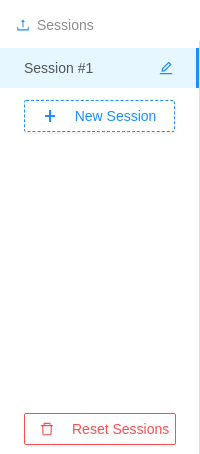
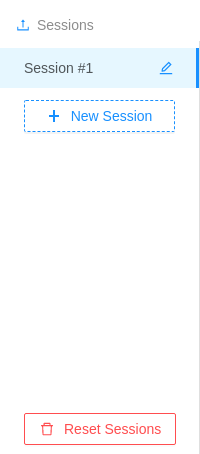
fix: ugly buttons on sidebar

Changed region(s): [[0.3, 0.9251, 0.84, 0.9559], [0.36, 0.2467, 0.78, 0.2775], [0.24, 0.2467, 0.3, 0.2775]]

diff --git a/client/src/components/Sidebar.scss b/client/src/components/Sidebar.scss
@@ -53,6 +53,9 @@
     }
     .menu-button {
       padding: 0 24px;
+      .ant-btn > .anticon + span {
+        margin-left: 0;
+      }
     }
     .reset-button {
       width: 100%;
